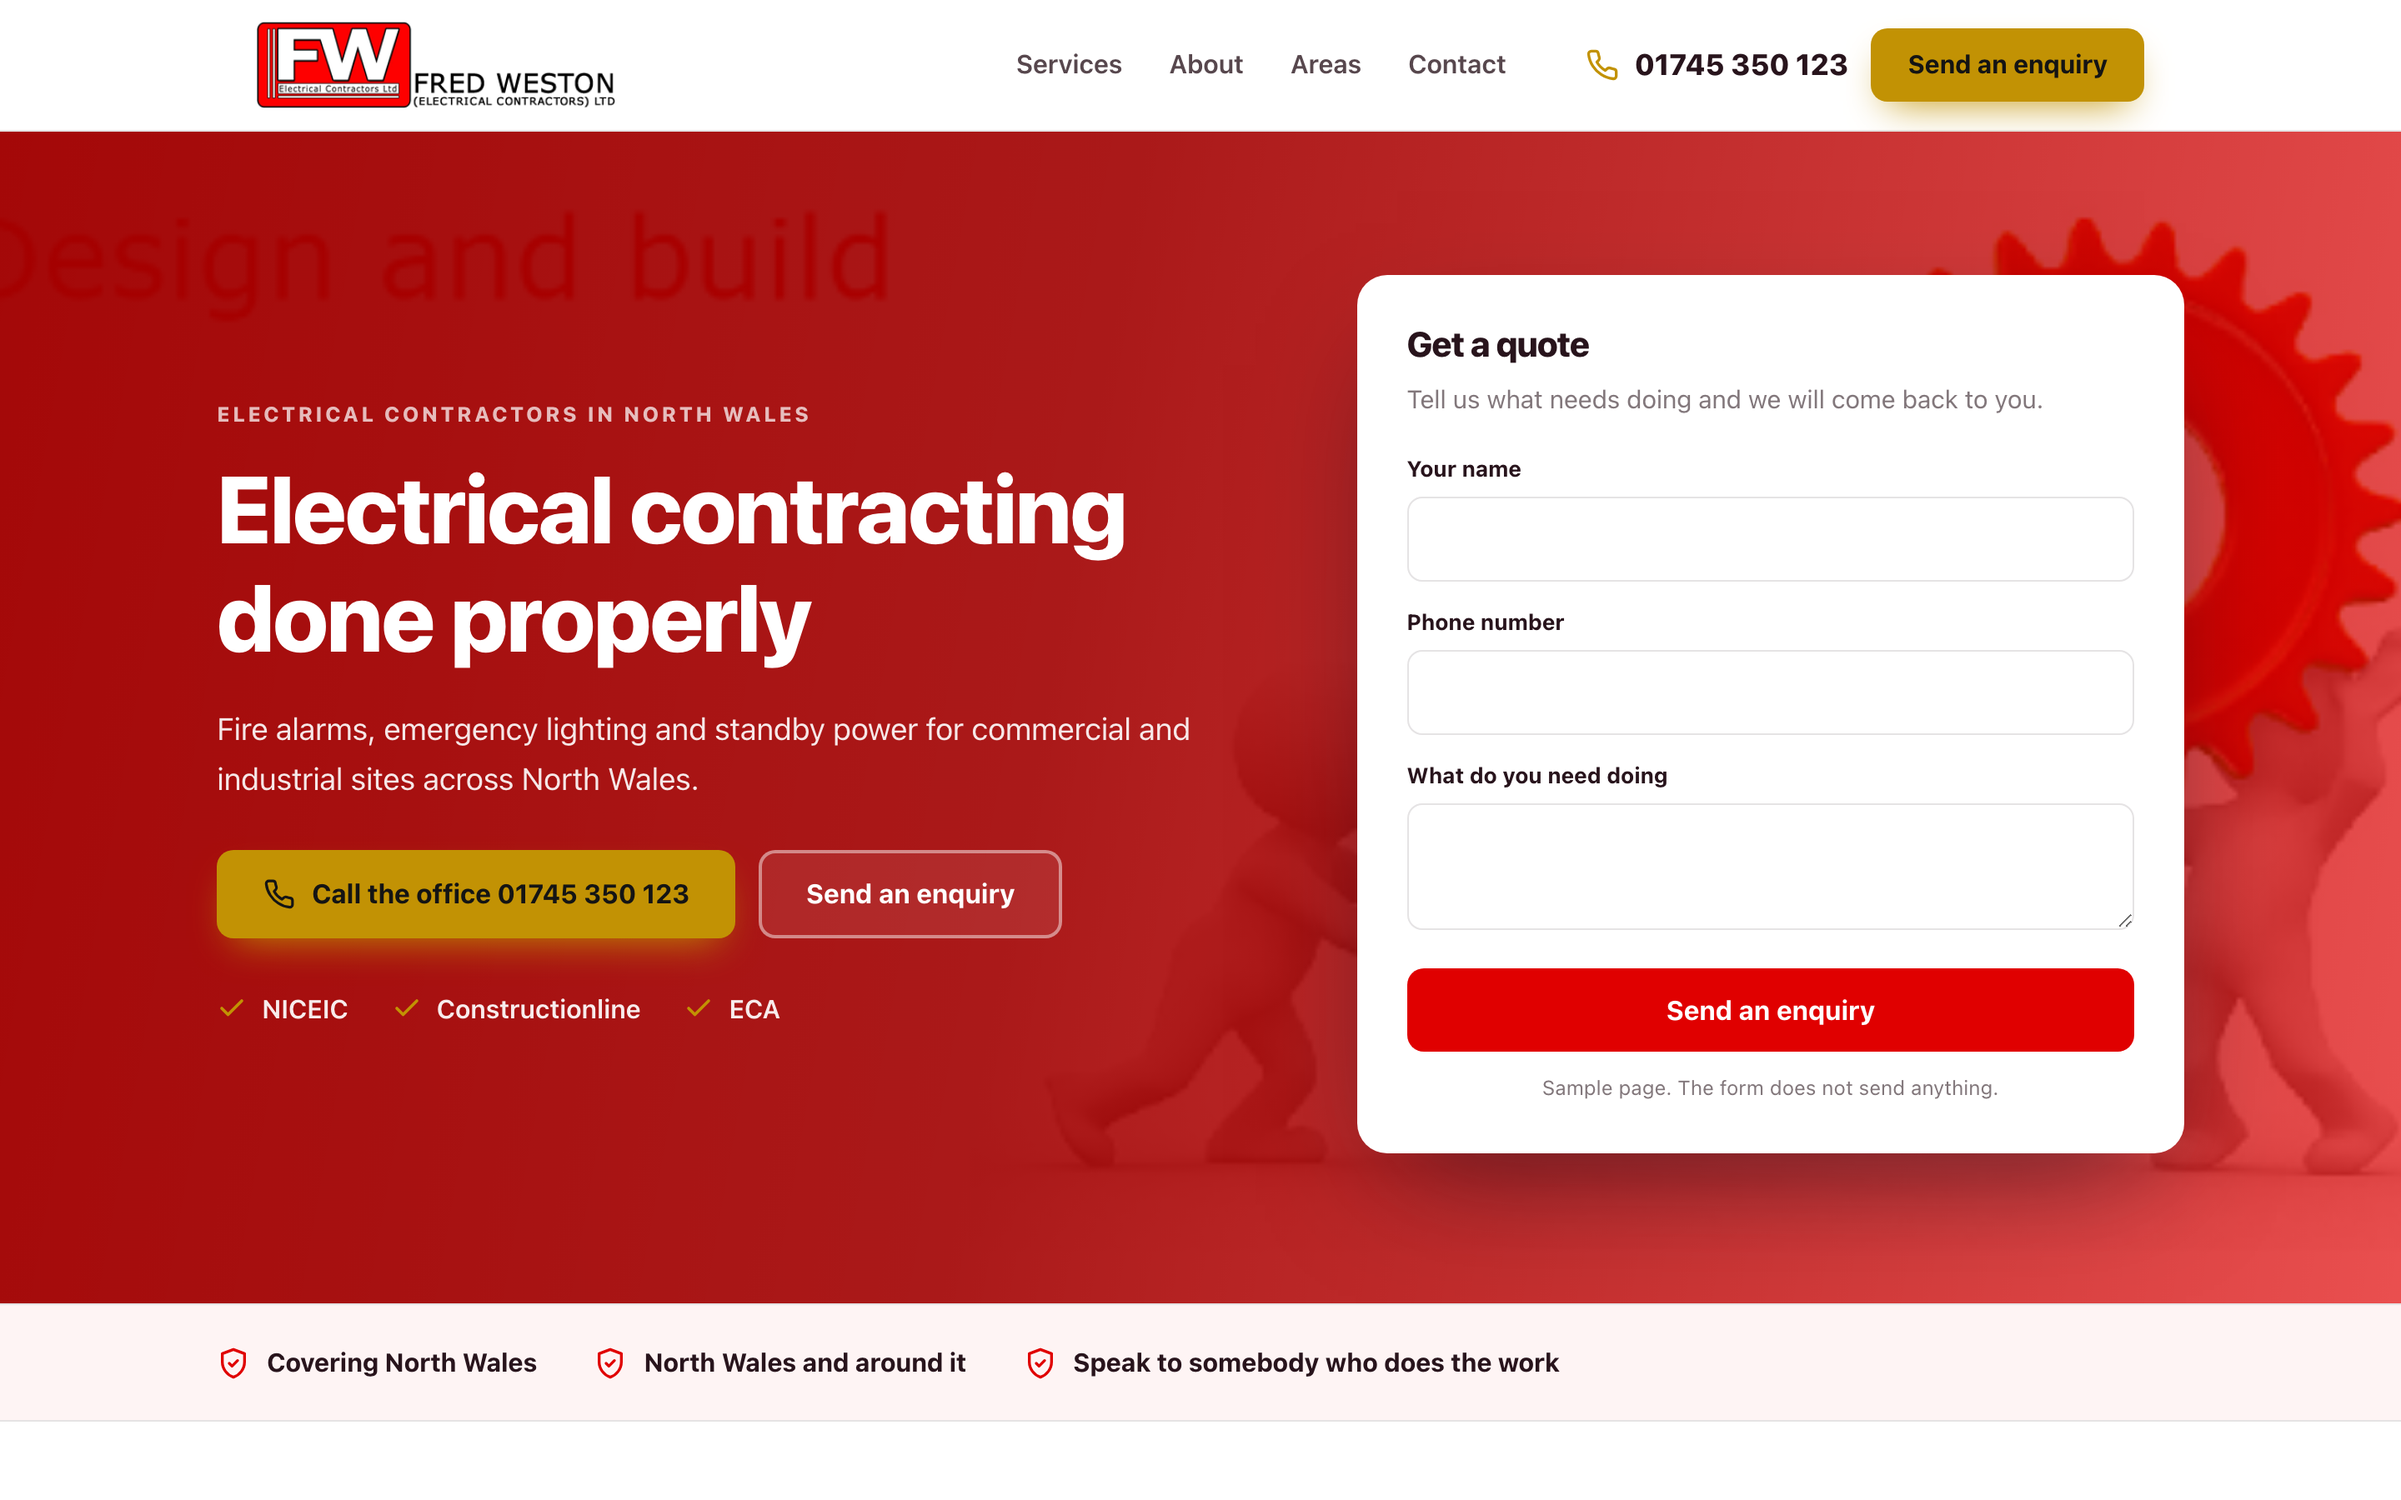
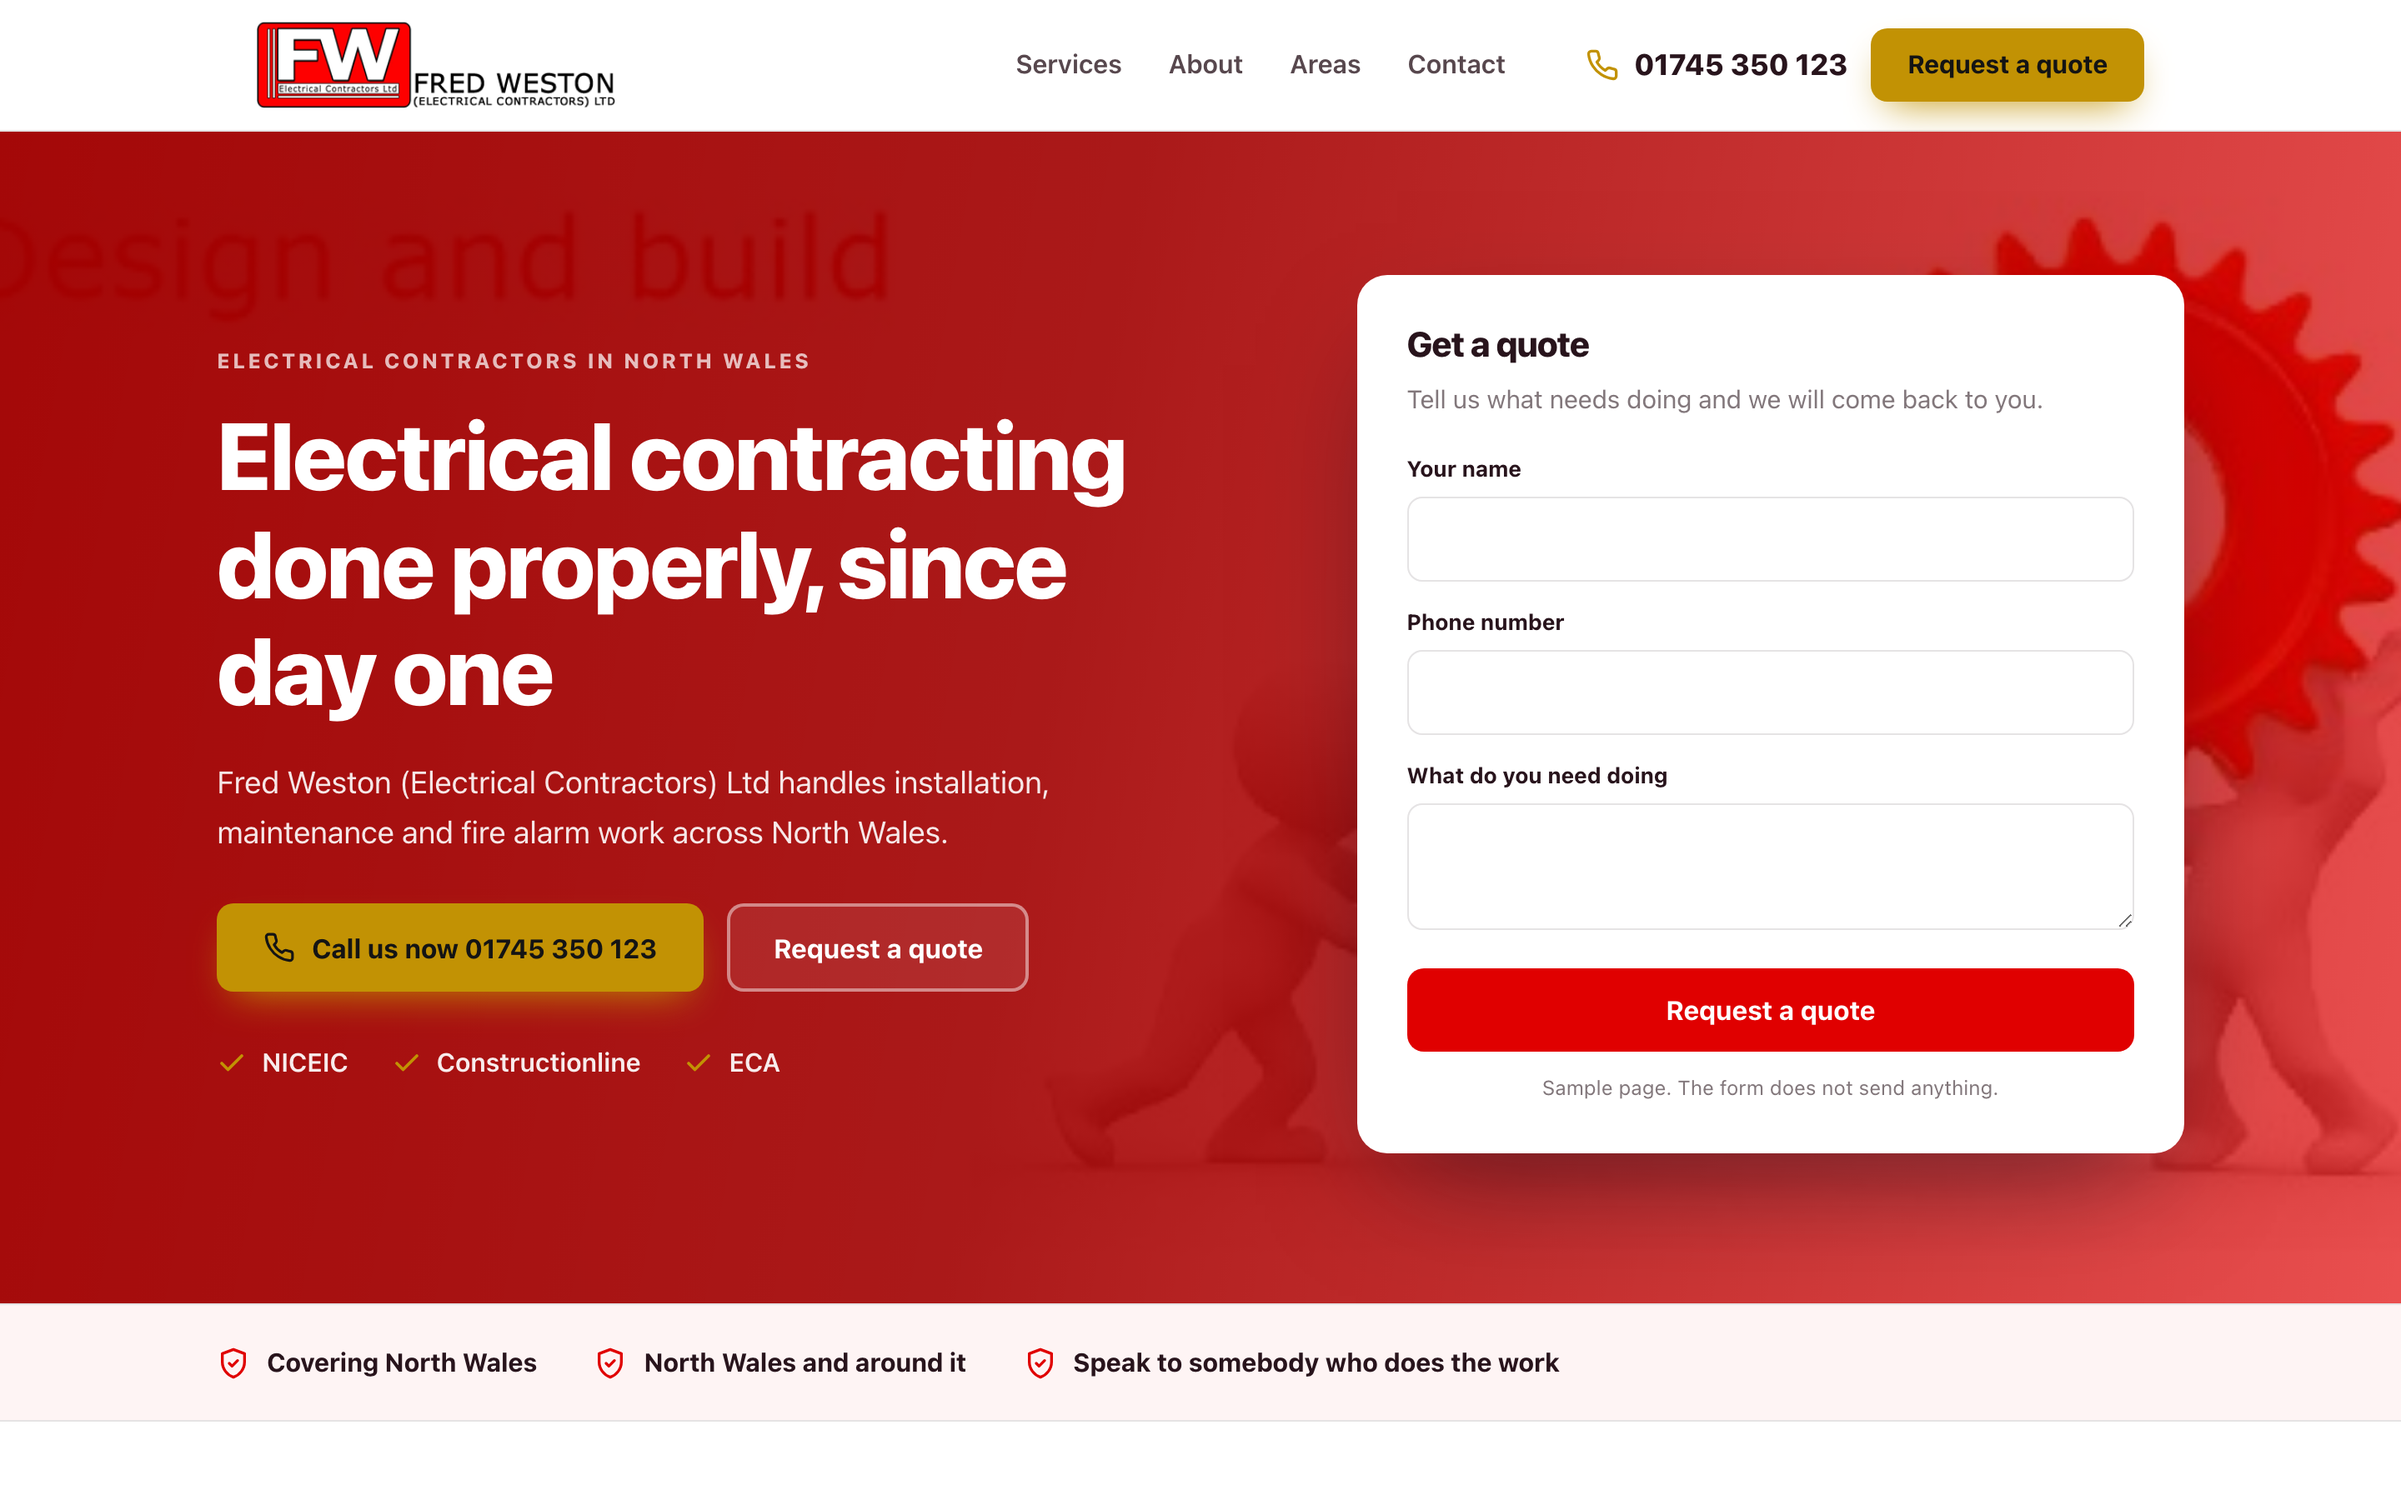
Sample homepage for Fred Weston (Electrical Contractors) Ltd

Changed region(s): [[0.0625, 0.2178, 0.5, 0.7156], [0.6875, 0.6533, 0.7812, 0.6844], [0.8125, 0.0311, 0.875, 0.0622]]

diff --git a/docs/2c41012d6e/index.html b/docs/2c41012d6e/index.html
@@ -4,14 +4,15 @@
 <meta charset="utf-8">
 <meta name="viewport" content="width=device-width, initial-scale=1">
 <meta name="robots" content="noindex,nofollow">
-<title>Fred Weston Electrical Contractors, Rhyl, North Wales sample homepage</title>
-<meta name="description" content="Fire alarms, emergency lighting and standby power for commercial and industrial sites across North Wales.">
+<meta name="aso-build" content="">
+<title>Fred Weston (Electrical Contractors) Ltd sample homepage</title>
+<meta name="description" content="Fred Weston (Electrical Contractors) Ltd handles installation, maintenance and fire alarm work across North Wales.">
 <link rel="canonical" href="https://markygff.github.io/aso-mockups/2c41012d6e/">
 <meta property="og:type" content="website">
-<meta property="og:title" content="Fred Weston Electrical Contractors, Rhyl, North Wales sample homepage">
-<meta property="og:description" content="Fire alarms, emergency lighting and standby power for commercial and industrial sites across North Wales.">
+<meta property="og:title" content="Fred Weston (Electrical Contractors) Ltd sample homepage">
+<meta property="og:description" content="Fred Weston (Electrical Contractors) Ltd handles installation, maintenance and fire alarm work across North Wales.">
 <meta property="og:url" content="https://markygff.github.io/aso-mockups/2c41012d6e/">
-<meta property="og:image" content="http://www.fredweston.co.uk/mem/fredweston-banner-1.png"><style>
+<meta property="og:image" content="img/p01.jpg"><style>
 :root{
   --primary:#e00000;
   --primary-dark:#a10000;
@@ -52,7 +53,8 @@ p{margin:0}
 .nav{display:flex;gap:28px;margin-left:auto;font-weight:600;font-size:.97rem;color:var(--ink)}
 .nav span{opacity:.78}
 .header-cta{display:flex;align-items:center;gap:14px;margin-left:28px}
-.tel{display:flex;align-items:center;gap:9px;font-weight:800;font-size:1.1rem;color:var(--ink)}
+.tel{display:flex;align-items:center;gap:9px;font-weight:800;font-size:1.1rem;
+     color:var(--ink);text-decoration:none}
 .tel svg{width:20px;height:20px;color:var(--accent)}
 .header-cta .btn{padding:12px 20px;font-size:.95rem}
 
@@ -119,27 +121,27 @@ p{margin:0}
 <header class="header">
   <div class="wrap header-in">
     <div class="brand">
-<img src="http://www.fredweston.co.uk/memberdir/fredweston/flogo.png" alt="Fred Weston Electrical Contractors, Rhyl, North Wales logo">    </div>
+<img src="img/logo.png" alt="Fred Weston (Electrical Contractors) Ltd logo">    </div>
     <nav class="nav">
       <span>Services</span><span>About</span><span>Areas</span><span>Contact</span>
     </nav>
     <div class="header-cta">
-      <span class="tel"><svg viewBox="0 0 24 24" fill="none" stroke="currentColor" stroke-width="2" stroke-linecap="round" stroke-linejoin="round" aria-hidden="true"><path d="M22 16.9v3a2 2 0 0 1-2.2 2 19.8 19.8 0 0 1-8.6-3.1 19.5 19.5 0 0 1-6-6 19.8 19.8 0 0 1-3.1-8.7A2 2 0 0 1 4.1 2h3a2 2 0 0 1 2 1.7c.1 1 .4 1.9.7 2.8a2 2 0 0 1-.5 2.1L8.1 9.9a16 16 0 0 0 6 6l1.3-1.2a2 2 0 0 1 2.1-.5c.9.3 1.8.6 2.8.7a2 2 0 0 1 1.7 2z"/></svg><span>01745 350 123</span></span>
-      <span class="btn btn-accent">Send an enquiry</span>
+      <a class="tel" href="tel:+441745350123"><svg viewBox="0 0 24 24" fill="none" stroke="currentColor" stroke-width="2" stroke-linecap="round" stroke-linejoin="round" aria-hidden="true"><path d="M22 16.9v3a2 2 0 0 1-2.2 2 19.8 19.8 0 0 1-8.6-3.1 19.5 19.5 0 0 1-6-6 19.8 19.8 0 0 1-3.1-8.7A2 2 0 0 1 4.1 2h3a2 2 0 0 1 2 1.7c.1 1 .4 1.9.7 2.8a2 2 0 0 1-.5 2.1L8.1 9.9a16 16 0 0 0 6 6l1.3-1.2a2 2 0 0 1 2.1-.5c.9.3 1.8.6 2.8.7a2 2 0 0 1 1.7 2z"/></svg><span>01745 350 123</span></a>
+      <span class="btn btn-accent">Request a quote</span>
     </div>
   </div>
 </header>
 
 <section class="hero">
-  <div class="hero-bg"><img src="http://www.fredweston.co.uk/mem/fredweston-banner-1.png" alt="Fred Weston Electrical Contractors, Rhyl, North Wales at work" width="1600" height="900"></div>
+  <div class="hero-bg"><img src="img/p01.jpg" alt="Fred Weston (Electrical Contractors) Ltd at work" width="1600" height="900"></div>
   <div class="wrap hero-in">
     <div>
       <p class="eyebrow">Electrical contractors in North Wales</p>
-      <h1>Electrical contracting done properly</h1>
-      <p class="hero-sub">Fire alarms, emergency lighting and standby power for commercial and industrial sites across North Wales.</p>
+      <h1>Electrical contracting done properly, since day one</h1>
+      <p class="hero-sub">Fred Weston (Electrical Contractors) Ltd handles installation, maintenance and fire alarm work across North Wales.</p>
       <div class="hero-actions">
-        <span class="btn btn-accent"><svg viewBox="0 0 24 24" fill="none" stroke="currentColor" stroke-width="2" stroke-linecap="round" stroke-linejoin="round" aria-hidden="true"><path d="M22 16.9v3a2 2 0 0 1-2.2 2 19.8 19.8 0 0 1-8.6-3.1 19.5 19.5 0 0 1-6-6 19.8 19.8 0 0 1-3.1-8.7A2 2 0 0 1 4.1 2h3a2 2 0 0 1 2 1.7c.1 1 .4 1.9.7 2.8a2 2 0 0 1-.5 2.1L8.1 9.9a16 16 0 0 0 6 6l1.3-1.2a2 2 0 0 1 2.1-.5c.9.3 1.8.6 2.8.7a2 2 0 0 1 1.7 2z"/></svg>Call the office 01745 350 123</span>
-        <span class="btn btn-ghost">Send an enquiry</span>
+        <span class="btn btn-accent"><svg viewBox="0 0 24 24" fill="none" stroke="currentColor" stroke-width="2" stroke-linecap="round" stroke-linejoin="round" aria-hidden="true"><path d="M22 16.9v3a2 2 0 0 1-2.2 2 19.8 19.8 0 0 1-8.6-3.1 19.5 19.5 0 0 1-6-6 19.8 19.8 0 0 1-3.1-8.7A2 2 0 0 1 4.1 2h3a2 2 0 0 1 2 1.7c.1 1 .4 1.9.7 2.8a2 2 0 0 1-.5 2.1L8.1 9.9a16 16 0 0 0 6 6l1.3-1.2a2 2 0 0 1 2.1-.5c.9.3 1.8.6 2.8.7a2 2 0 0 1 1.7 2z"/></svg>Call us now 01745 350 123</span>
+        <span class="btn btn-ghost">Request a quote</span>
       </div>
       <ul class="hero-bullets">
 <li><svg viewBox="0 0 24 24" fill="none" stroke="currentColor" stroke-width="2.4" stroke-linecap="round" stroke-linejoin="round" aria-hidden="true"><path d="M20 6 9 17l-5-5"/></svg><span>NICEIC</span></li><li><svg viewBox="0 0 24 24" fill="none" stroke="currentColor" stroke-width="2.4" stroke-linecap="round" stroke-linejoin="round" aria-hidden="true"><path d="M20 6 9 17l-5-5"/></svg><span>Constructionline</span></li><li><svg viewBox="0 0 24 24" fill="none" stroke="currentColor" stroke-width="2.4" stroke-linecap="round" stroke-linejoin="round" aria-hidden="true"><path d="M20 6 9 17l-5-5"/></svg><span>ECA</span></li>      </ul>
@@ -150,7 +152,7 @@ p{margin:0}
       <div class="field"><label>Your name</label><input type="text" disabled></div>
       <div class="field"><label>Phone number</label><input type="tel" disabled></div>
       <div class="field"><label>What do you need doing</label><textarea disabled></textarea></div>
-      <span class="btn btn-primary">Send an enquiry</span>
+      <span class="btn btn-primary">Request a quote</span>
       <p class="sample-note">Sample page. The form does not send anything.</p>
     </div>
   </div>
@@ -168,29 +170,29 @@ p{margin:0}
   <div class="wrap">
     <div class="services-head">
       <p class="eyebrow">What we do</p>
-      <h2>Fred Weston Electrical Contractors, Rhyl, North Wales, North Wales</h2>
-      <p>Fire alarms, emergency lighting and standby power for commercial and industrial sites across North Wales.</p>
+      <h2>Fred Weston (Electrical Contractors) Ltd, North Wales</h2>
+      <p>Fred Weston (Electrical Contractors) Ltd handles installation, maintenance and fire alarm work across North Wales.</p>
     </div>
     <div class="grid">
       <article class="card">
         <div class="icon"><svg viewBox="0 0 24 24" fill="none" stroke="currentColor" stroke-width="2" stroke-linecap="round" stroke-linejoin="round" aria-hidden="true"><path d="M14.7 6.3a4 4 0 0 0 5.3 5.3l-8 8a3 3 0 0 1-4.2-4.2z"/><path d="m14.7 6.3 3-3"/></svg></div>
-        <h3>Fire Alarm Installation and Maintenance</h3>
-        <p>Fire alarm systems fitted and kept in working order.</p>
+        <h3>Electrical Maintenance and repair works</h3>
+        <p>We keep your electrical systems running and fix what breaks.</p>
       </article>
       <article class="card">
         <div class="icon"><svg viewBox="0 0 24 24" fill="none" stroke="currentColor" stroke-width="2" stroke-linecap="round" stroke-linejoin="round" aria-hidden="true"><path d="M13 2 4 14h7l-1 8 9-12h-7z"/></svg></div>
-        <h3>Emergency Lighting Installation</h3>
-        <p>Emergency lighting installed and maintained on schedule.</p>
+        <h3>Fire Alarm Installation and Maintenance</h3>
+        <p>We install and maintain fire alarm systems to keep your building compliant.</p>
       </article>
       <article class="card">
         <div class="icon"><svg viewBox="0 0 24 24" fill="none" stroke="currentColor" stroke-width="2" stroke-linecap="round" stroke-linejoin="round" aria-hidden="true"><path d="M3 10.5 12 3l9 7.5"/><path d="M5 9.5V21h14V9.5"/><path d="M10 21v-6h4v6"/></svg></div>
-        <h3>Standby Generator sets</h3>
-        <p>Standby generators for sites that can&#39;t afford downtime.</p>
+        <h3>Emergency Lighting Installation</h3>
+        <p>Emergency lighting stays in good order under our maintenance cover.</p>
       </article>
       <article class="card">
         <div class="icon"><svg viewBox="0 0 24 24" fill="none" stroke="currentColor" stroke-width="2" stroke-linecap="round" stroke-linejoin="round" aria-hidden="true"><path d="M4 20 15 9"/><path d="m14 4 6 6-3 3-6-6z"/><path d="m3 15 6 6"/></svg></div>
-        <h3>Uninterruptable Power Supply (UPS) Systems</h3>
-        <p>UPS systems to keep power running when the mains fails.</p>
+        <h3>Standby Generator sets</h3>
+        <p>We install standby generator sets so your power stays on when the mains goes down.</p>
       </article>
     </div>
   </div>
@@ -198,7 +200,7 @@ p{margin:0}
 
 <footer class="footer">
   <div class="wrap footer-in">
-    <span>Sample built for Fred Weston Electrical Contractors, Rhyl, North Wales from your public website. Not live. Tell us and we delete it.</span>
+    <span>Sample built for Fred Weston (Electrical Contractors) Ltd from your public website. Not live. Tell us and we delete it.</span>
     <span>fredweston.co.uk</span>
   </div>
 </footer>
